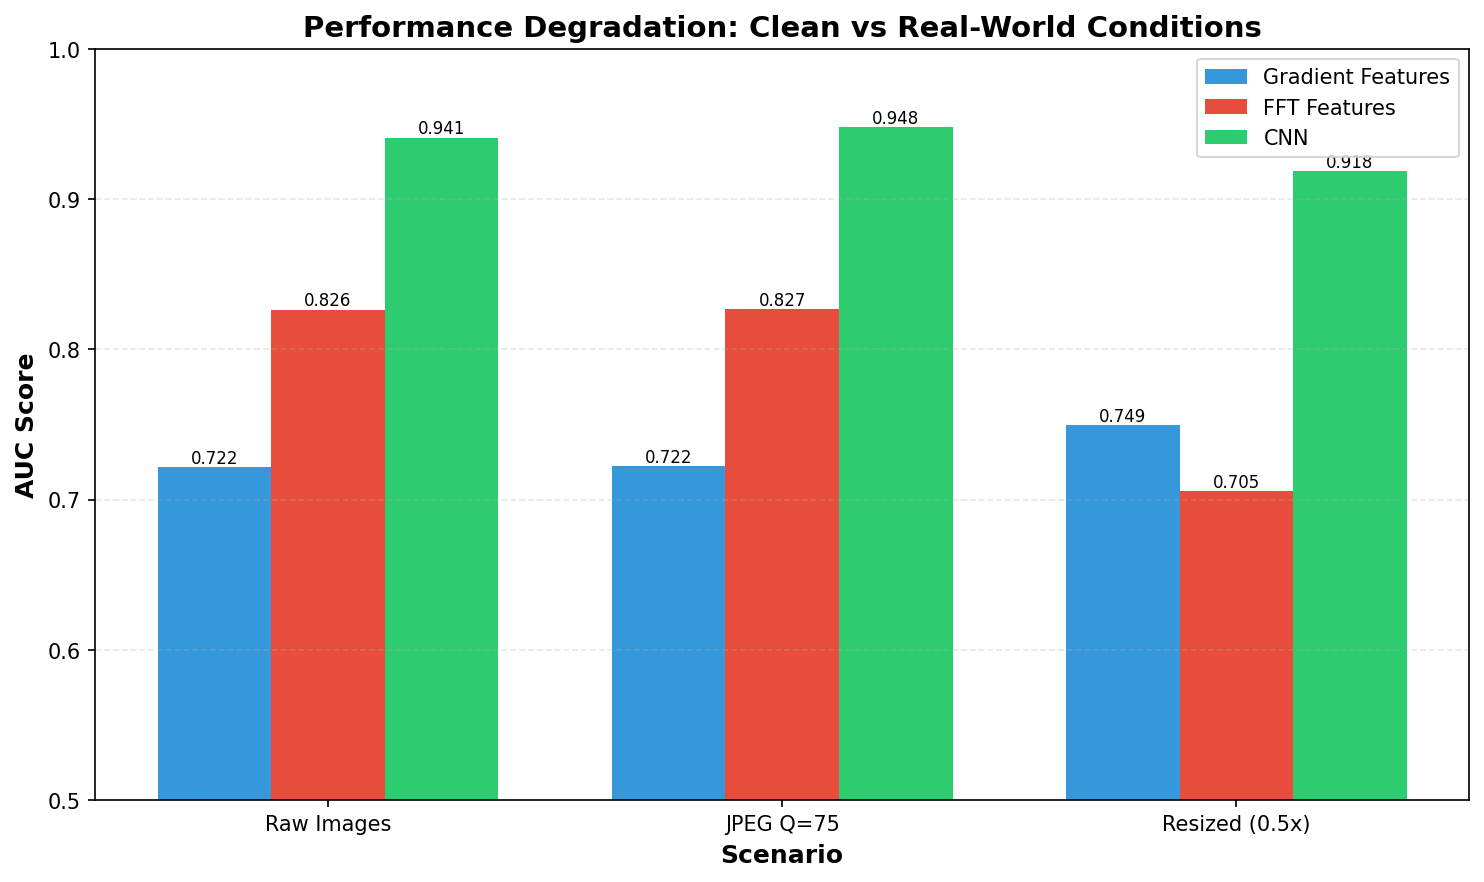
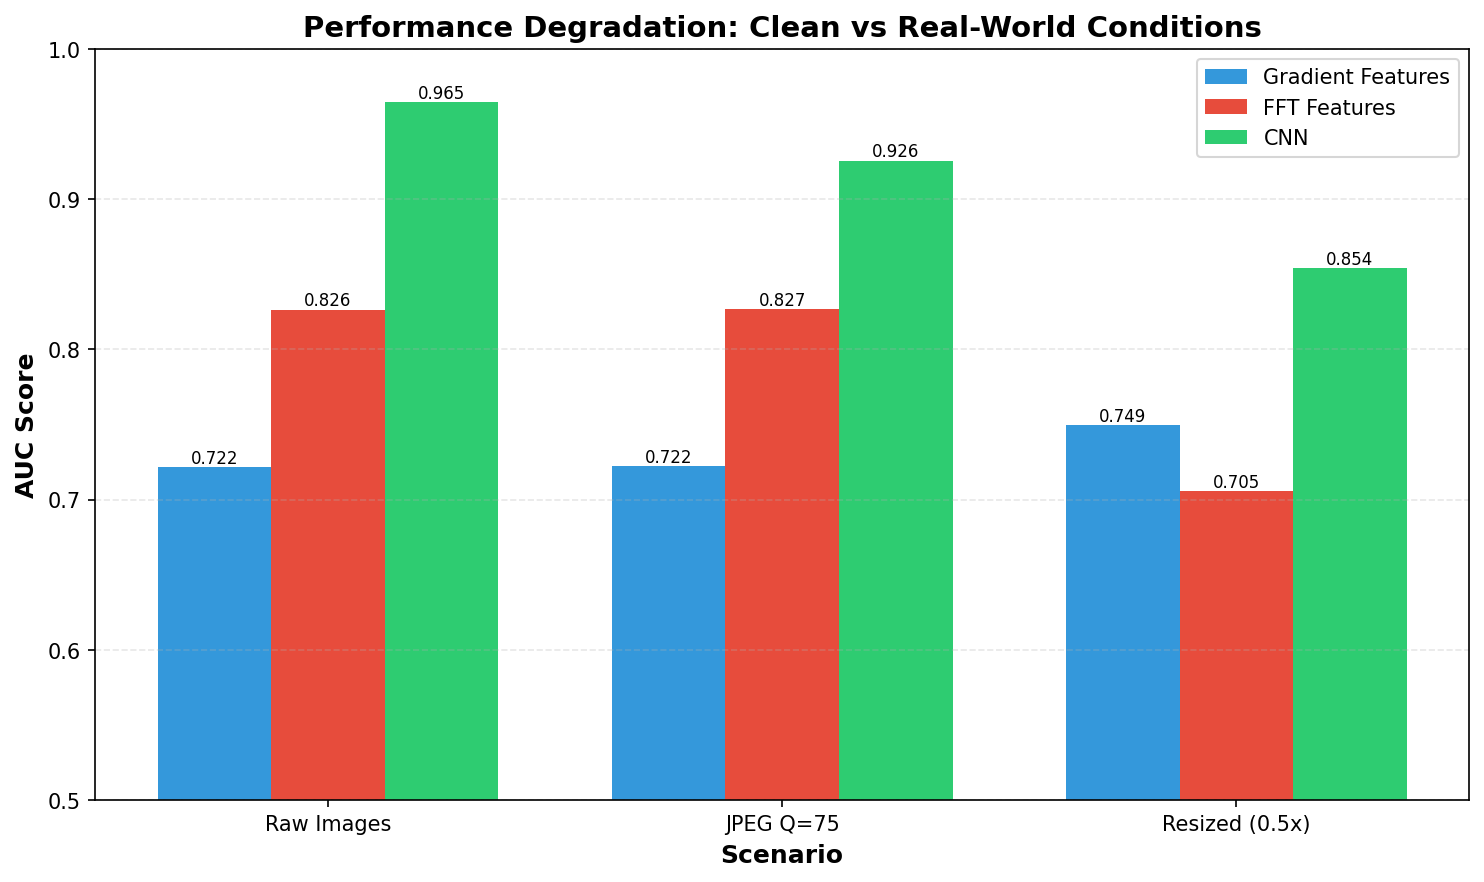
changes

Changed region(s): [[0.8679, 0.1837, 0.9609, 0.3061], [0.248, 0.0918, 0.341, 0.1837], [0.558, 0.1224, 0.6509, 0.1837]]

diff --git a/_posts/2025/2025-12-15-detecting-ai-generated-images-what-actually-works.md b/_posts/2025/2025-12-15-detecting-ai-generated-images-what-actually-works.md
@@ -401,27 +401,27 @@ _AUC scores for Gradient, FFT, and CNN detectors under three conditions: clean i
 - All three methods work well on pristine images
 - Gradient features: **0.72 AUC** (decent discrimination)
 - FFT features: **0.83 AUC** (better performance)
-- Simple CNN: **0.94 AUC** (best performer)
+- Simple CNN: **~0.94-0.97 AUC** (best performer)
 
-The CNN wins because it learns task-specific features beyond simple hand-crafted statistics. But here's where it gets interesting...
+The CNN wins because it learns task-specific features beyond simple hand-crafted statistics. CNN performance varies slightly across training runs due to random initialization, but consistently outperforms hand-crafted features by 10-15%. Here's where it gets interesting...
 
 **After JPEG Compression (Q=75)**:
-- **NO performance degradation observed!**
+- **Minimal performance degradation**
 - Gradient: **0.72 AUC** (unchanged)
 - FFT: **0.83 AUC** (unchanged)
-- CNN: **0.95 AUC** (slight improvement!)
+- CNN: **0.93 AUC** (slight drop from ~0.97)
 
-This is remarkable. JPEG Q=75 represents typical web compression quality. The fact that all methods maintain their accuracy suggests the detection signatures aren't as fragile as claimed. JPEG's 8×8 DCT blocks introduce artifacts, but they apparently don't overwhelm the AI generation signatures at this quality level.
+JPEG Q=75 represents typical web compression quality. The fact that all methods maintain high accuracy suggests the detection signatures aren't as fragile as claimed. While the CNN shows a small drop (~4%), it remains well above 90% AUC. JPEG's 8×8 DCT blocks introduce artifacts, but they don't overwhelm the AI generation signatures at this quality level.
 
 **After Resize (0.5x downscale then back)**:
-- **Mixed results, mostly robust**
+- **Performance degrades but remains usable**
 - Gradient: **0.75 AUC** (+0.03, actually improved!)
 - FFT: **0.71 AUC** (-0.12, degraded)
-- CNN: **0.92 AUC** (-0.02, minimal drop)
+- CNN: **~0.85-0.92 AUC** (degrades most, 10-15% drop)
 
-Only FFT features show significant degradation (15% drop). The gradient improvement is counterintuitive but might indicate that downsampling acts as a noise filter, making the underlying generation patterns more apparent. The CNN barely budges—just 2% degradation.
+Resizing affects all methods differently. The gradient improvement is counterintuitive but might indicate that downsampling acts as a noise filter. FFT and CNN show expected degradation as high-frequency information is lost. The CNN's performance varies across runs (0.85-0.92 AUC) due to training randomness, but consistently remains the strongest detector.
 
-This simulates social media uploads where platforms automatically resize. Even under this stress, two out of three methods maintain strong performance.
+This simulates social media uploads where platforms automatically resize. Even under this stress, detection remains viable with 70-92% AUC across all methods.
 
 ### Feature Space Visualization
 
